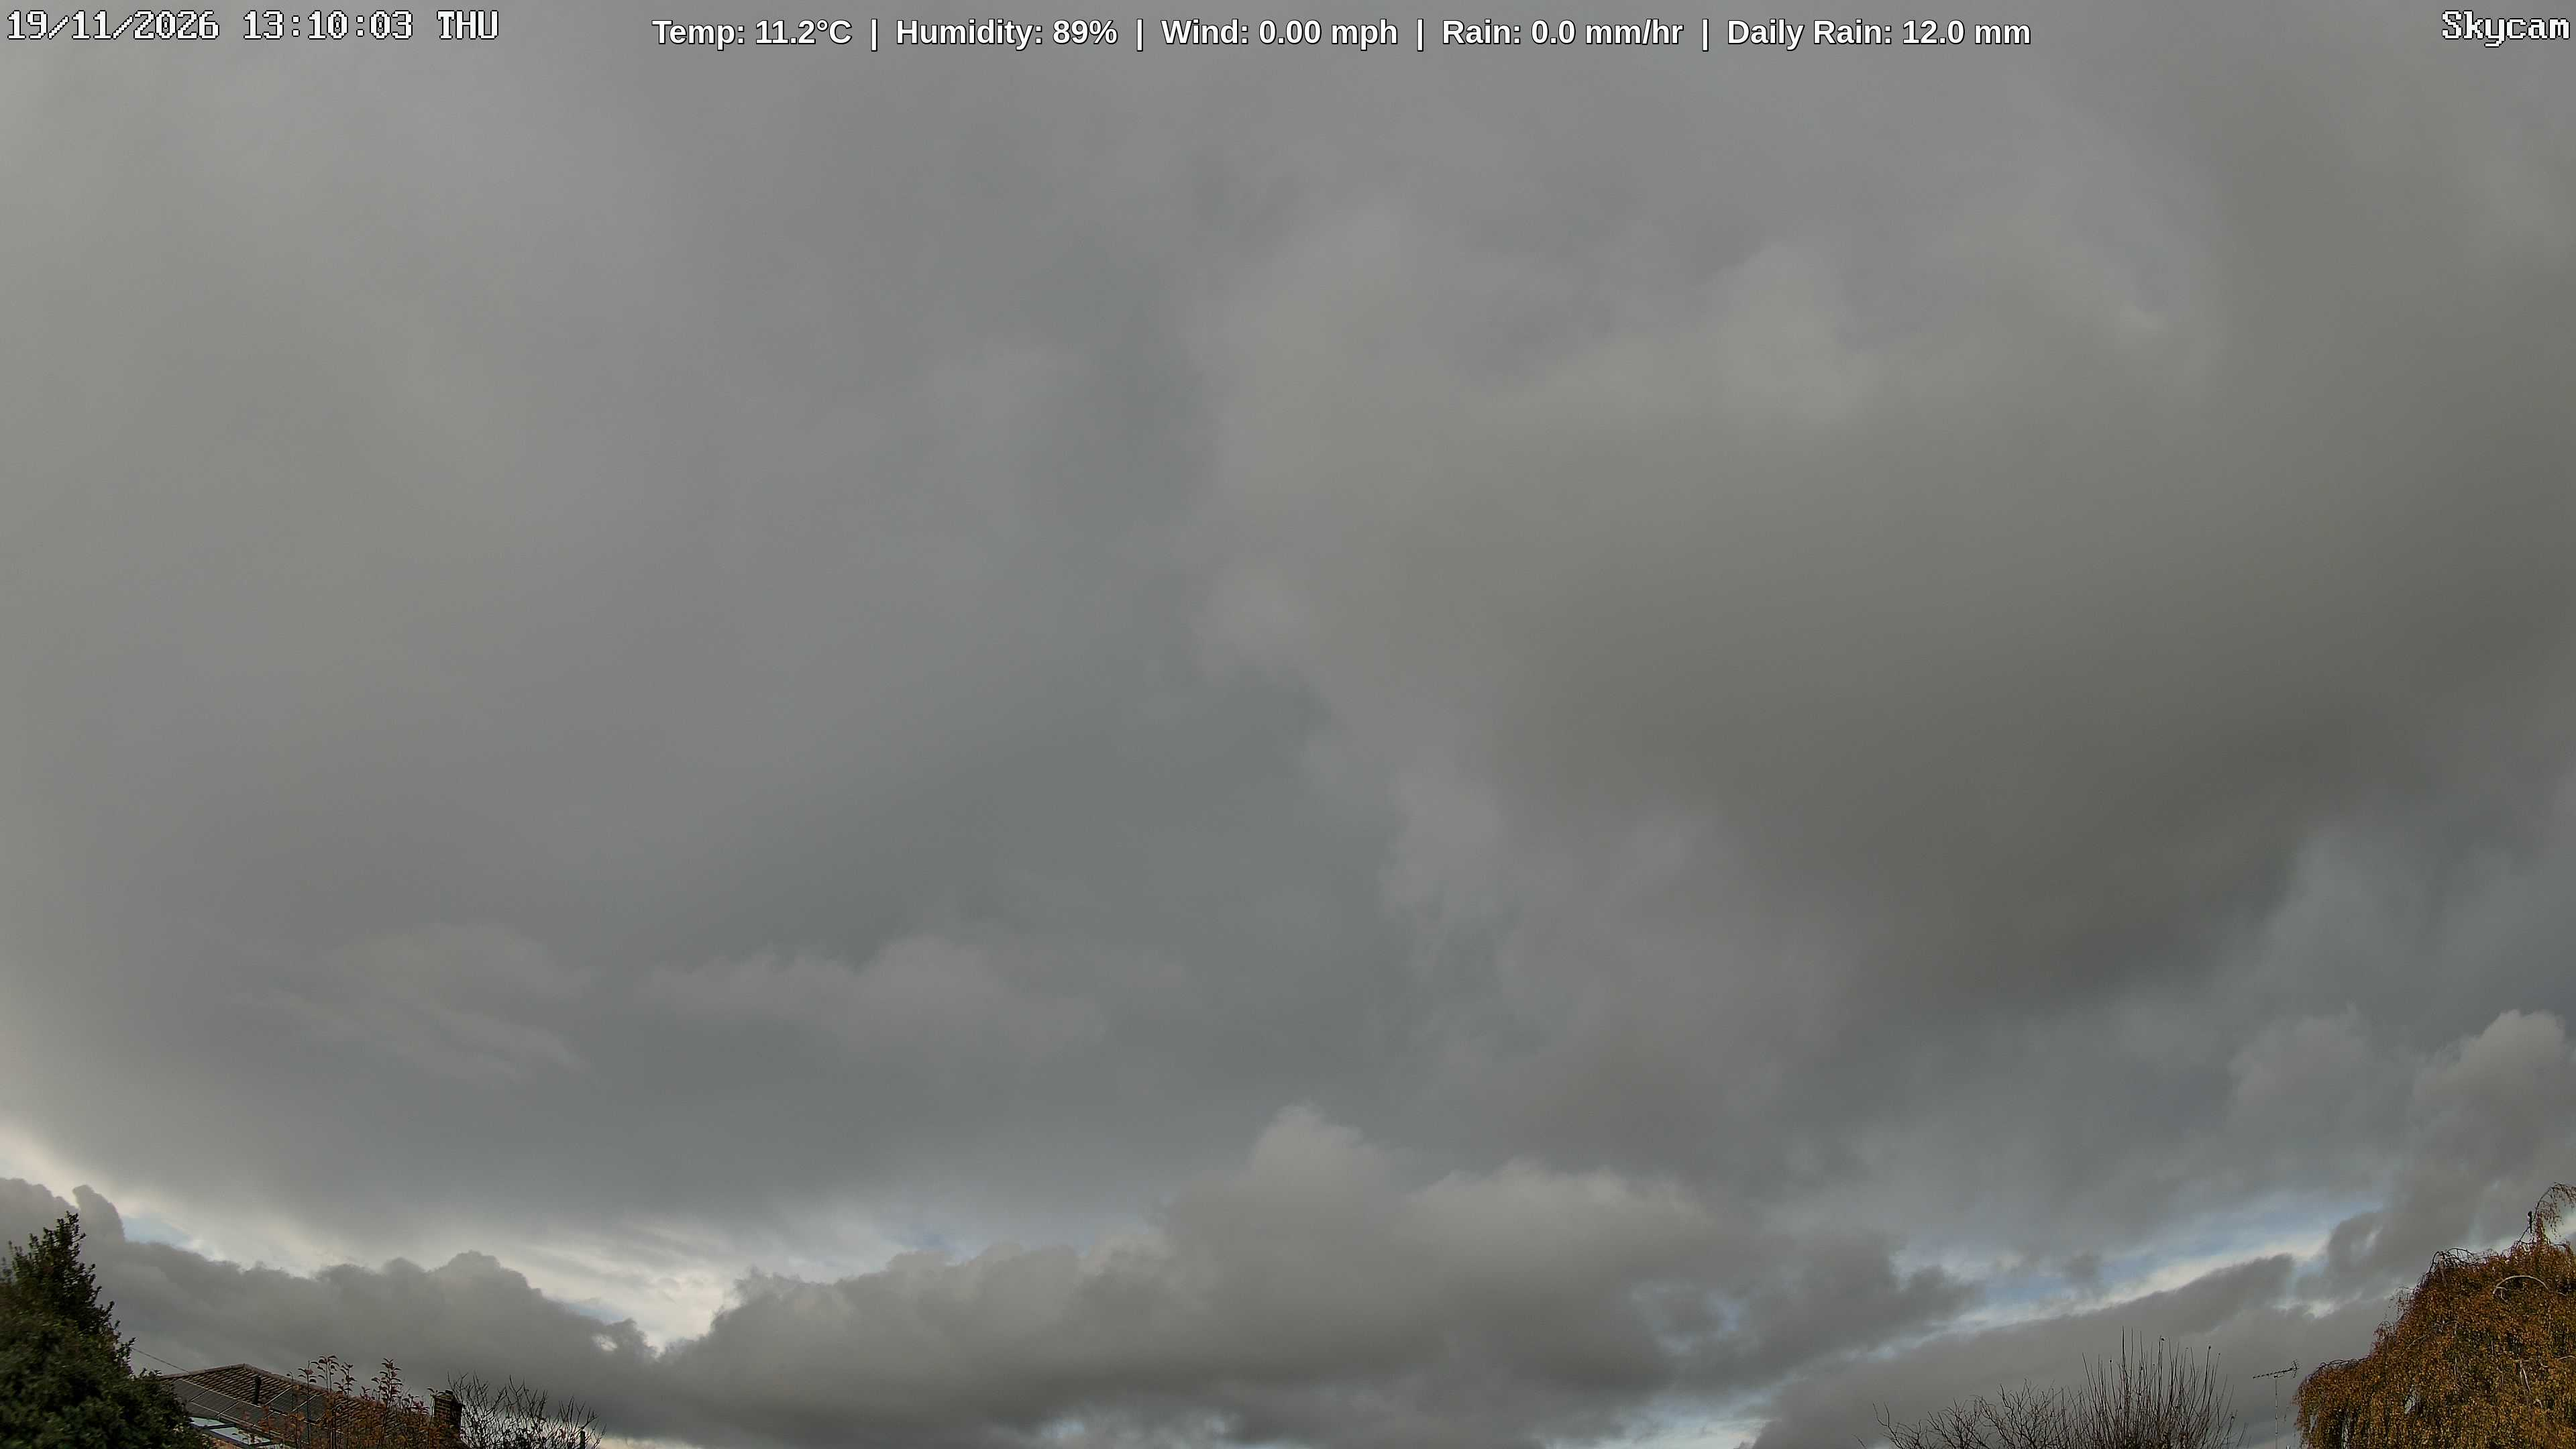
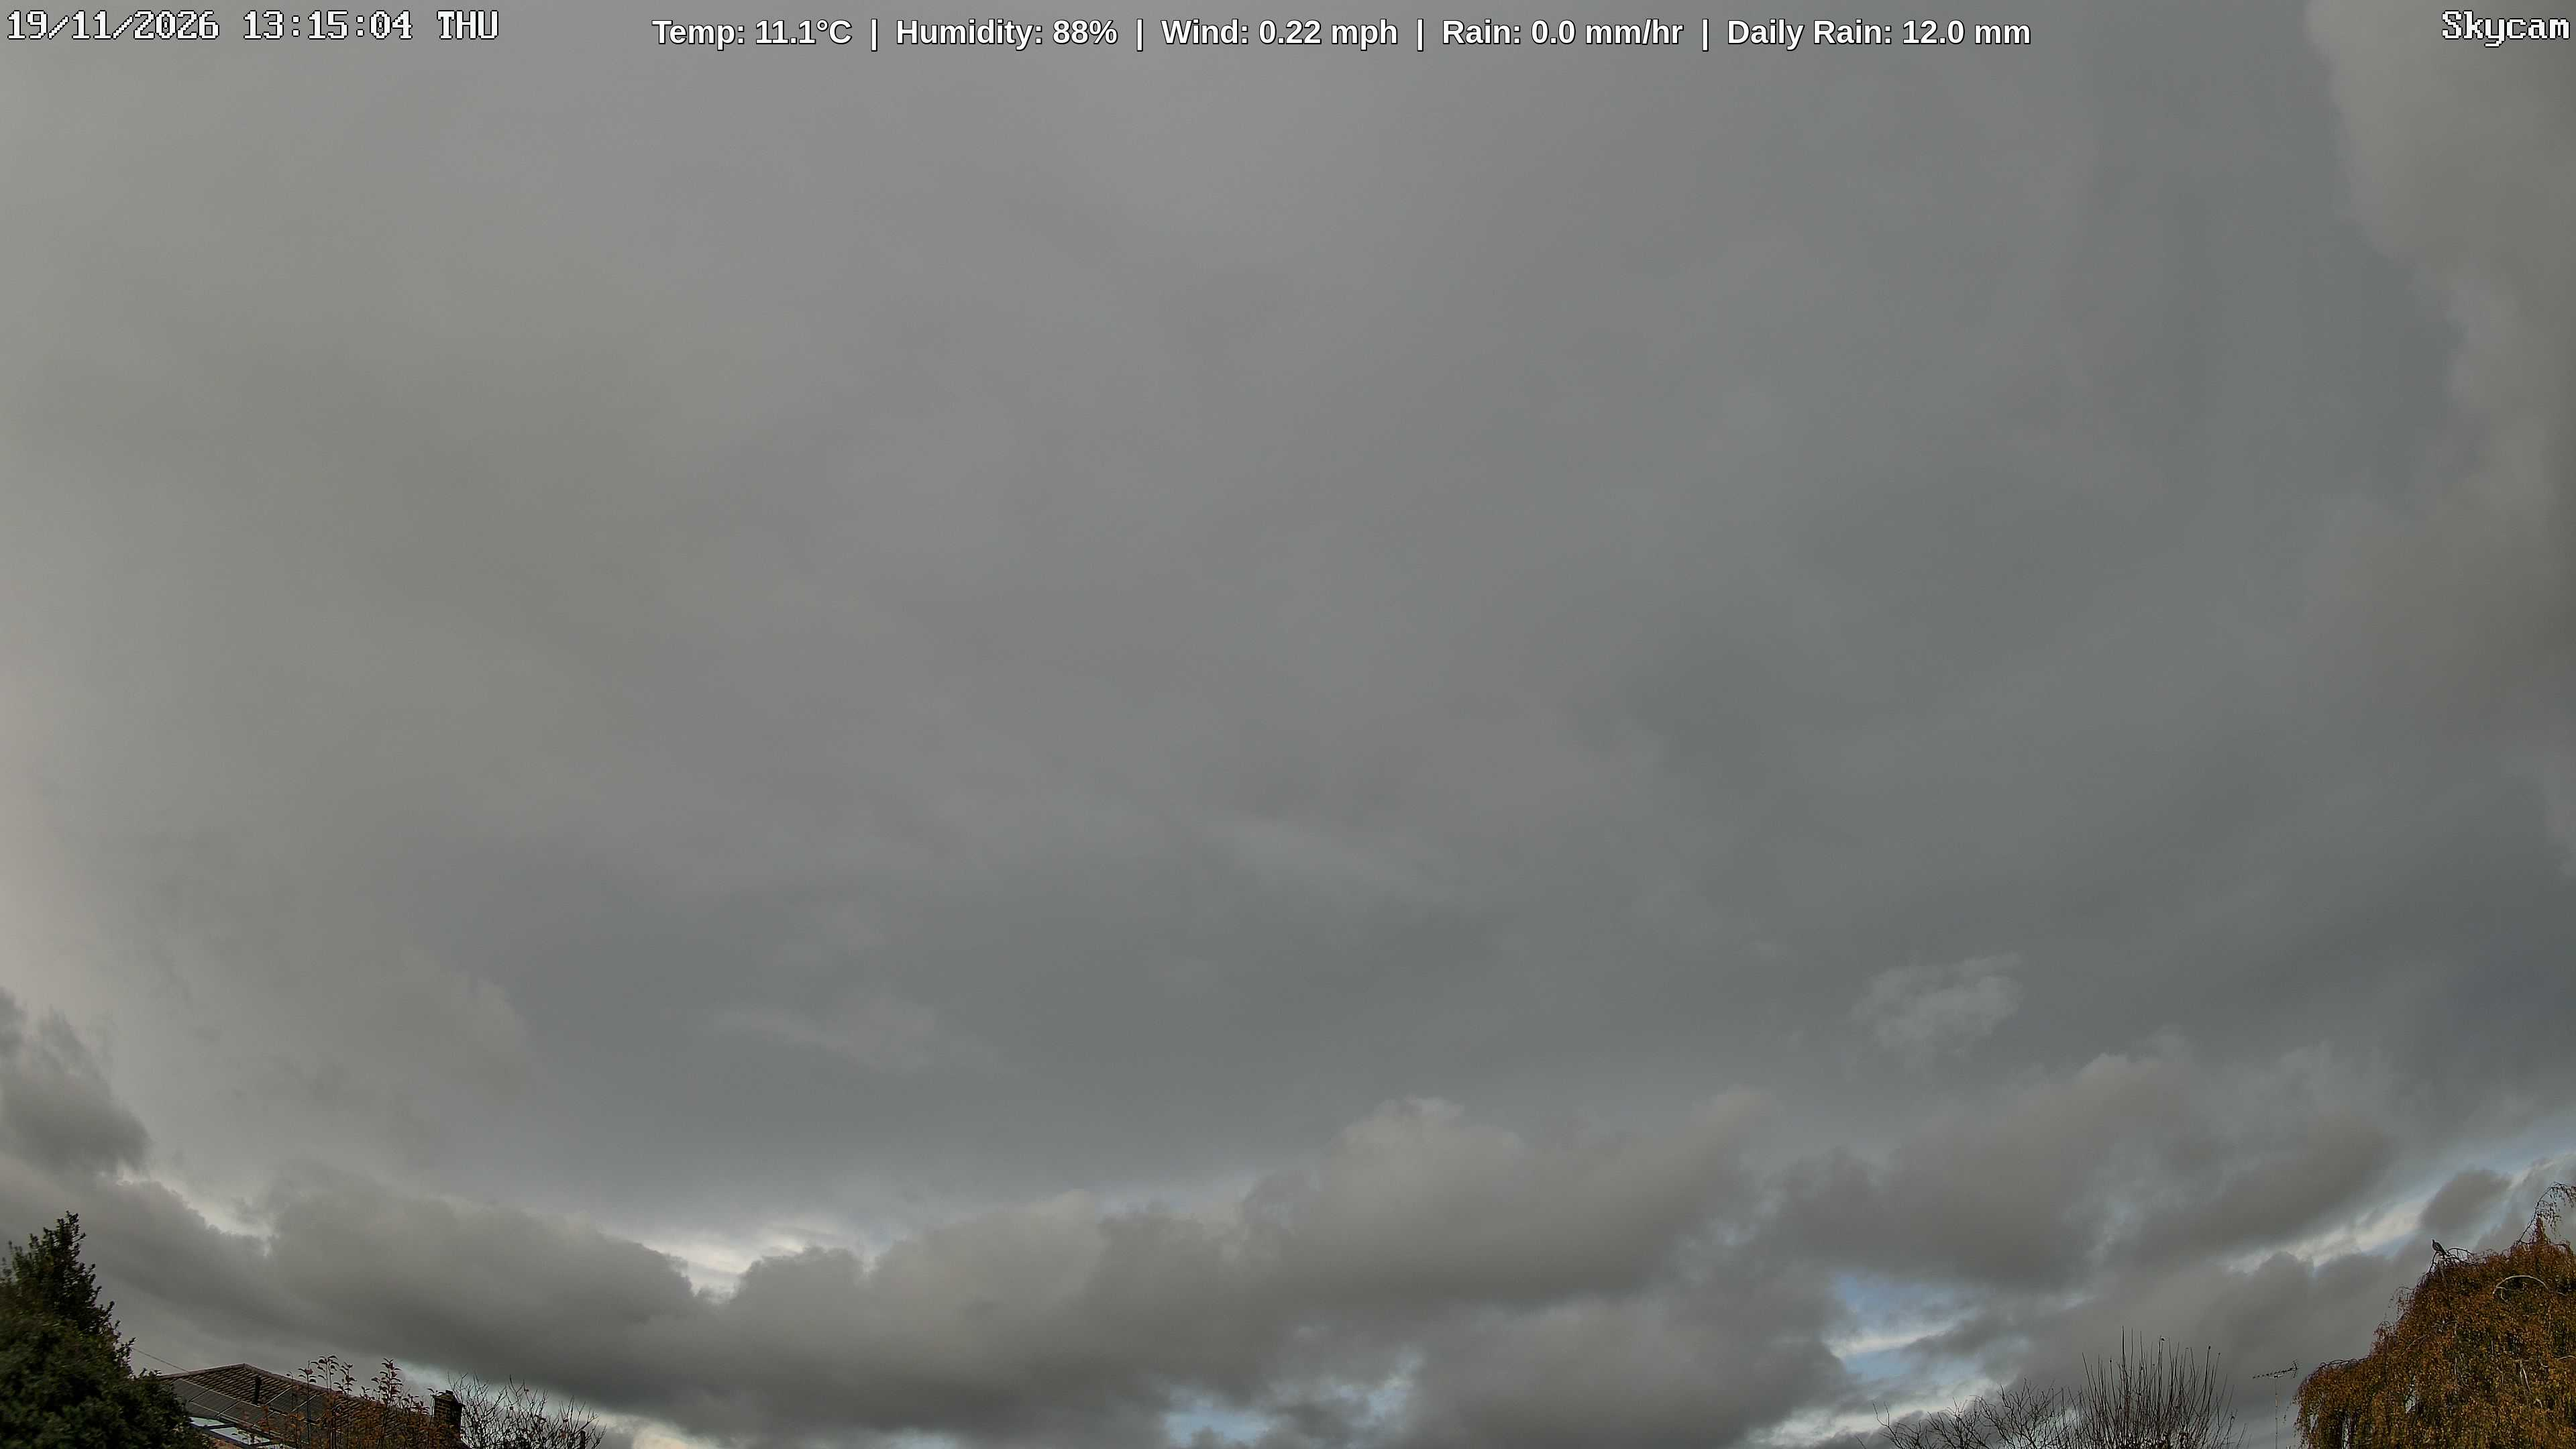
Update weather cam image with synchronized dual-layer weather metrics

diff --git a/index.html b/index.html
@@ -32,7 +32,7 @@
 </head>
 <body>
     <img id="weathercam" alt="Live Weather Snapshot">
-    <div class="banner">Temp: 11.2°C  |  Humidity: 89%  |  Wind: 0.00 mph  |  Rain: 0.0 mm/hr  |  Daily Rain: 12.0 mm</div>
+    <div class="banner">Temp: 11.1°C  |  Humidity: 88%  |  Wind: 0.22 mph  |  Rain: 0.0 mm/hr  |  Daily Rain: 12.0 mm</div>
 
     <script>
         // Shatter mobile cache engines by appending a live unique runtime timestamp 
